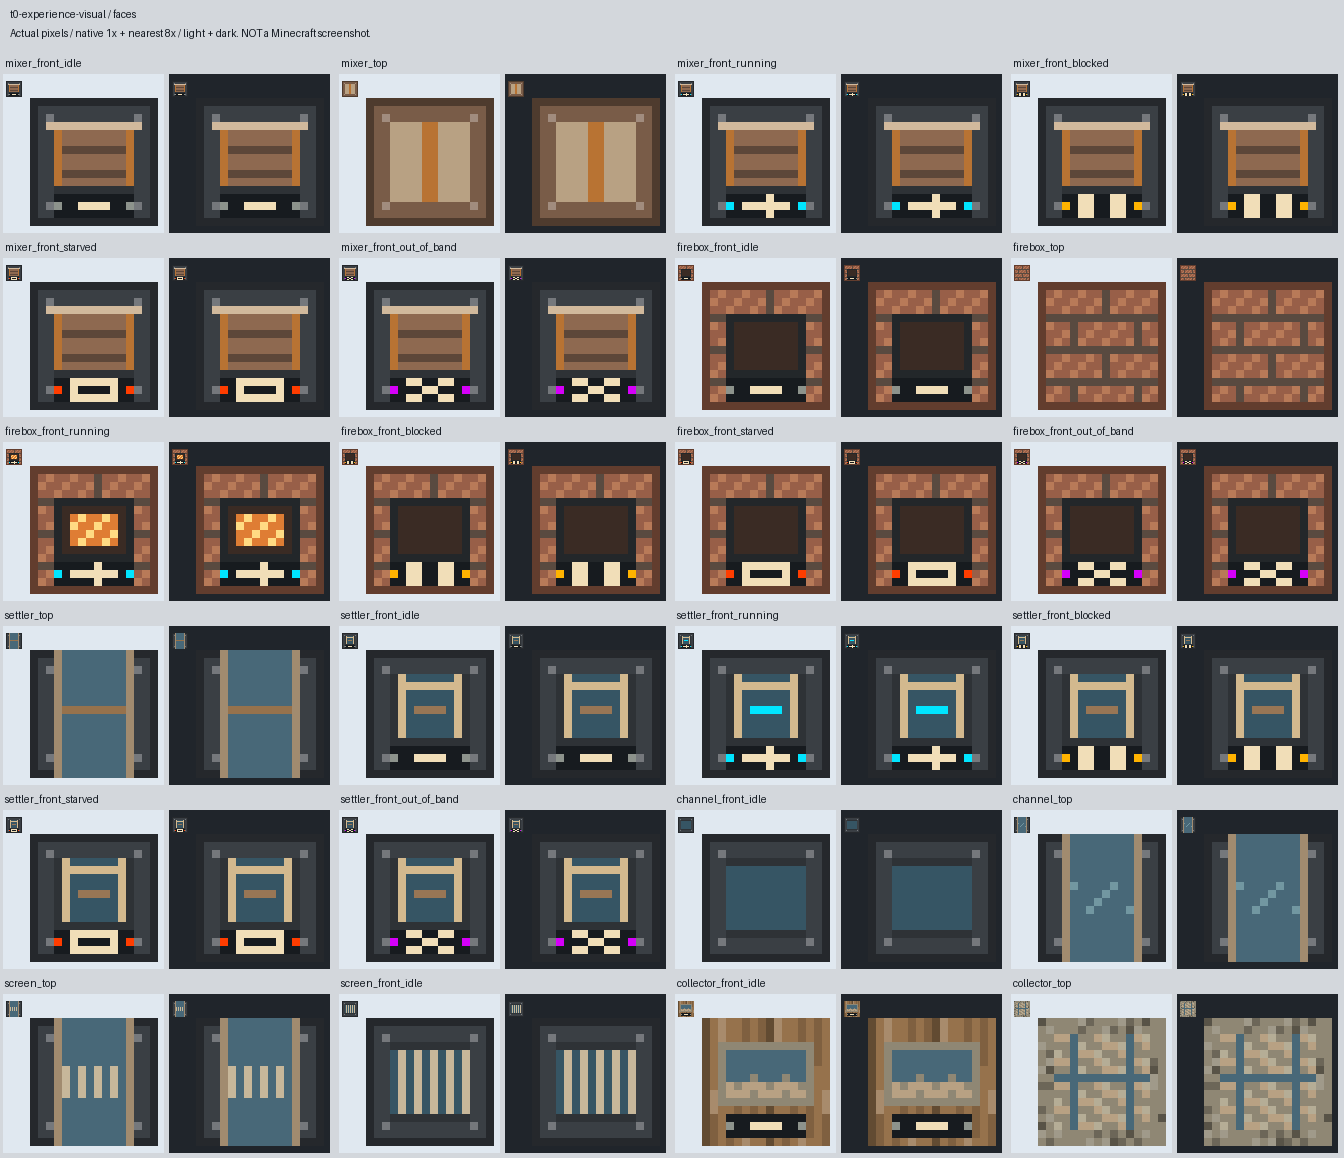
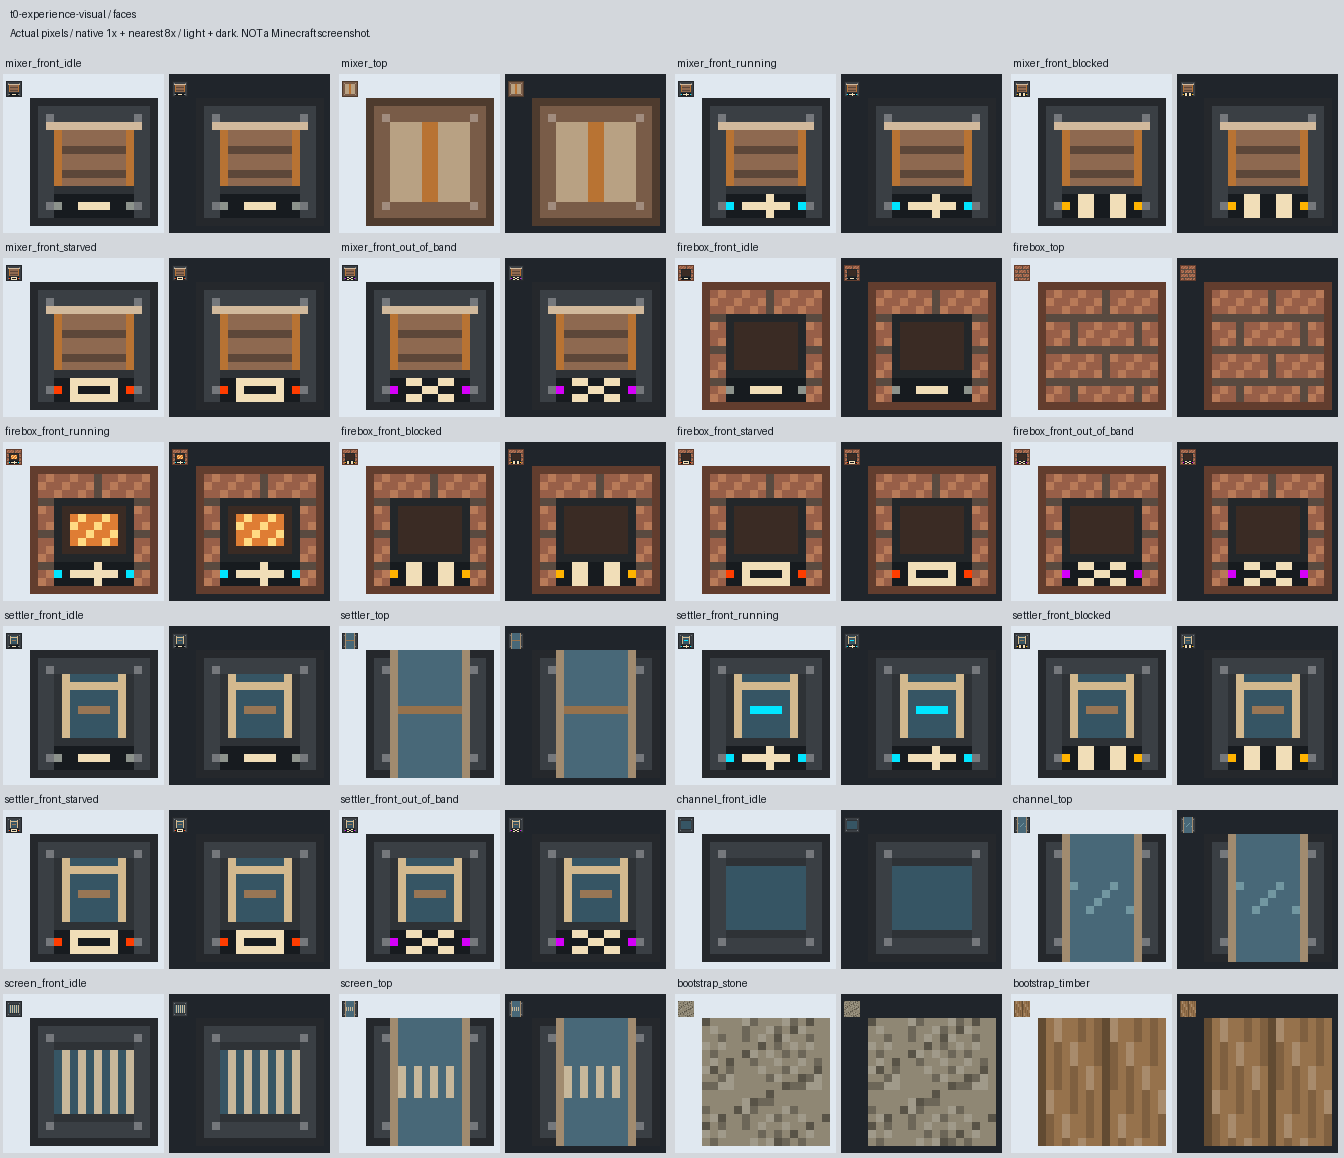
Finalize deterministic global T0 visual inventory and handoff
Preserve the selected 18b5823 inventory and all contact sheets from two independent byte-identical CPU exports. Record nine final affected inventory/port/Guide checks, reuse the unchanged JDK/preset/wrapper proofs, and retain every initial failure and the distinct JSON transport hashes. All 66 runtime PNGs still match the proved JDK stage and the 519 other baseline PNGs remain unchanged. Hand off actual model generation and composed loader/client/deployment validation to the coordinator; no diffusion, paid images or human art approval is claimed.

diff --git a/docs/assets/t0-experience-visual.md b/docs/assets/t0-experience-visual.md
@@ -36,7 +36,7 @@ Actual placement, adjacent machines, hotbar, JEI, quests and lighting still
 require a client review.
 
 The final [machine-readable projection](t0-experience-visual.json) is bound to
-`981552b9709dac4d083a418b69636e4bb1491710`: 108 T0-resolved PNGs including four
+`18b58230c9516d80411e55c18fbd1326d694237b`: 108 T0-resolved PNGs including four
 new shared overlays, all 585 texture PNGs indexed, and exact source/runtime
 hashes. Six port IDs are declared by the infrastructure contract but **zero are
 registered in this branch**; their actual models/capabilities belong to the
@@ -168,7 +168,7 @@ default and explicit-tool PowerShell/Bash invocations now all exit 0 on exact
 The final link checker also passes all 749 links across 51 Markdown files and
 the 160-row ADR index.
 
-The exported manifest is canonical ASCII/LF JSON. Windows Git checkout yields
+The initial `981552b` exported manifest is canonical ASCII/LF JSON. Windows Git checkout yields
 different raw CRLF bytes; both raw digests are retained, and parsing then using
 the existing canonical JSON writer reproduces the exact original
[1 lines of base64/hex data omitted]
@@ -179,8 +179,15 @@ Final sheet inspection also exposed process-dependent ordering in the
 inventory's set of resolved texture aliases. Sort that projection before
 authoring pages, so Python hash randomization cannot reshuffle the manifest or
 gallery. The regression runs separate processes with two different hash seeds;
-fresh deterministic export evidence is pending at this source checkpoint.
-No runtime texture or previously checked JDK input changes for this repair.
+the first six-case/sort-only proof passes on `38064aa`. Exact `18b5823` then
+passes all nine affected inventory/port/retained-Guide cases in 6.208s, including
+that cross-process regression. Two independent full exports, with hash seeds
+1 and 2, are byte-identical across the manifest and all 13 sheets. The selected
+raw/canonical JSON digest is
[1 lines of base64/hex data omitted]
+Every transferred sheet matches and no T0 indicator-shape collision remains.
+No runtime texture or previously checked JDK/preset/wrapper input changes for
+these projection-only repairs, so those source-scoped proofs are reused.
 
 The infrastructure owner's actual `164ee9a` adds six port crafts to
 `BootstrapRecipes`. The projection explicitly separates those declared port
@@ -190,13 +197,39 @@ both legacy and combined block/model/variant totals. No source declaration
 alone becomes a passing rendered port. The final coordinator must generate the
 composed models before refreshing this inventory.
 
+## Coordinator integration boundary
+
+Integrate this branch's complete source/output/proof history, not only the
+initial `981552b`: later commits repair the default PowerShell route, stabilize
+ordering and reconcile the actual port crafts. The only shared
+`GenerateAssets` changes are the selective visual mode, its two small writer
+helpers and the four-overlay call in normal generation. No audio hunk is
+changed. The infrastructure owner provides `BlockModels`, registration,
+capabilities and the additional pure generator inputs.
+
+After composing the real port/source authorities, generate normal models
+through the existing JDK pipeline, then run the inventory entrypoint once on
+that exact source with a new output directory. It must see six real port
+blockstates/item models, not infer them from this contract; expected combined
+totals are 25 blocks, 71 state models and 281 facing/state variants while the
+legacy 19/65/257 remain separately reported. No new PNG permutation is needed.
+The SCREEN rear plate is only two model units high in `164ee9a`; its role/arrow
+legibility needs an explicit native-client check, not a source-sheet approval.
+
+The coordinator owns root changelog/map/README/ADR/handoff reconciliation,
+combined build/package/registration/client qualification and deployment.
+Rebind any quest/Guide/shop presentation changes to their composed sources;
+retained sprites are not proof that an obsolete menu remains reachable.
+This unit's JDK lease was released at its recorded zero-Java close; its final
+CPU export leaves clean source and zero Python. No GPU lease was needed.
+
 No Gradle, native server, Prism, GPU or new inference is used. The regular
 generator remains JDK-only and calls the same checked face/overlay writers;
 there is no need to repeat the old full 1,602-file proof just for more counters.
 
 | Category | Current entry |
 | --- | --- |
-| COMPLETED | Complete global source/pixel inventory and 13 final sheets plus two baseline comparisons; reusable presets; 62 checked T0 state fronts/four shared overlays; actual 45 Python cases, two equal 66-file JDK stages and existing Multitool/guide regressions. |
+| COMPLETED | Complete global source/pixel inventory and 13 deterministic final sheets plus two baseline comparisons; reusable presets; 62 checked T0 state fronts/four shared overlays; actual 45 Python cases plus nine affected final projection checks, two equal 66-file JDK stages and existing Multitool/guide regressions. |
 | BLOCKED | None. |
 | NOT EXECUTED | Comfy/GPU inference (unnecessary), native client, port registration/integration in this branch, combined build/package/deployment. |
 | NEEDS HUMAN VALIDATION | In-client lighting/placement/state/rotations, hotbar/JEI/quests, GUI comfort and artistic quality. |
